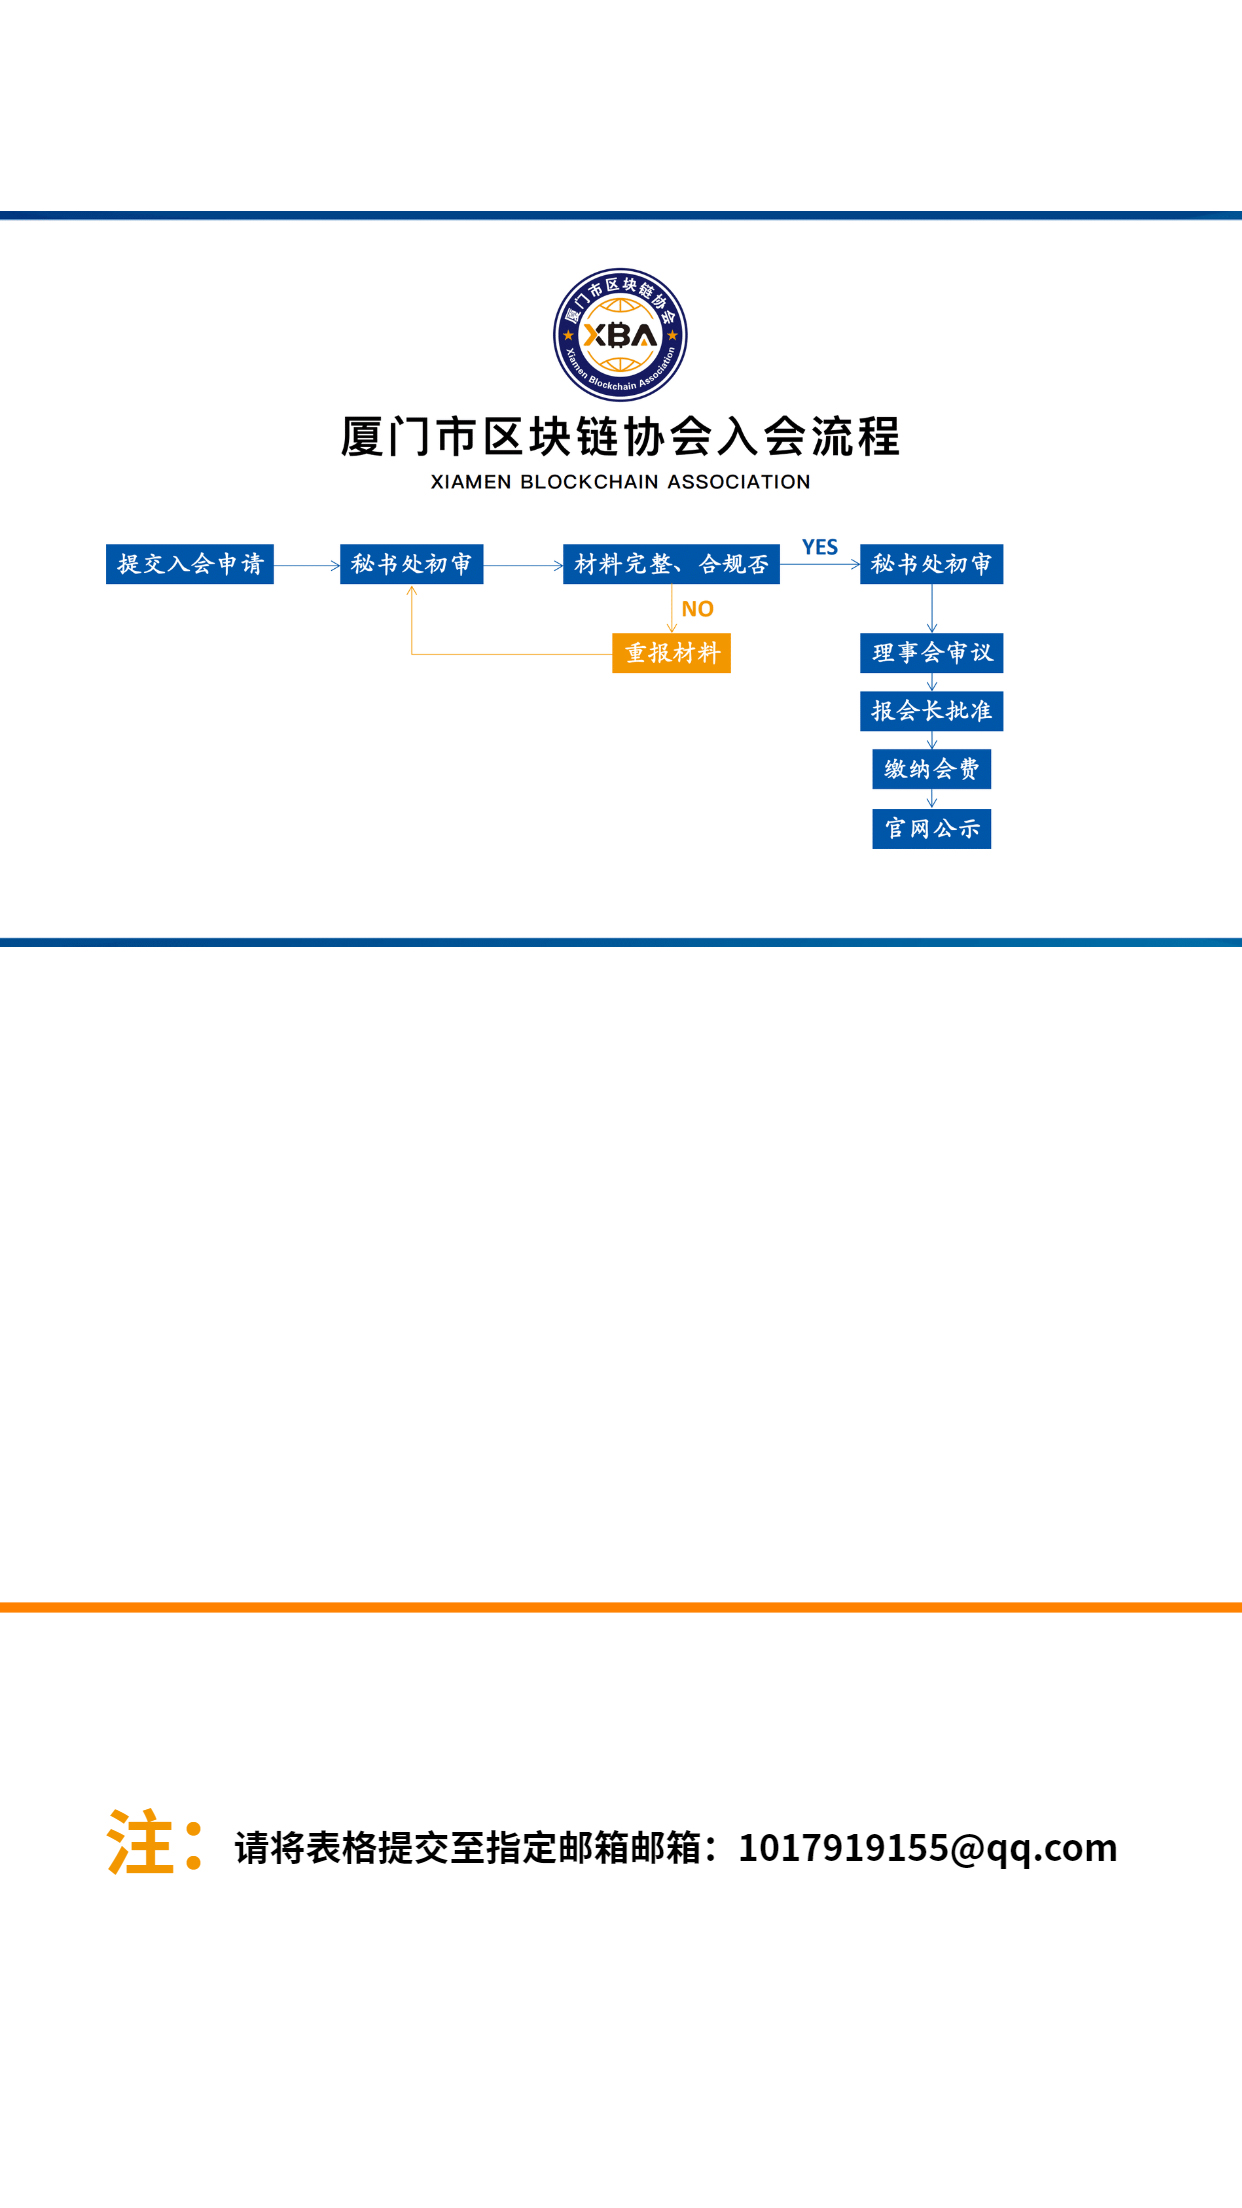
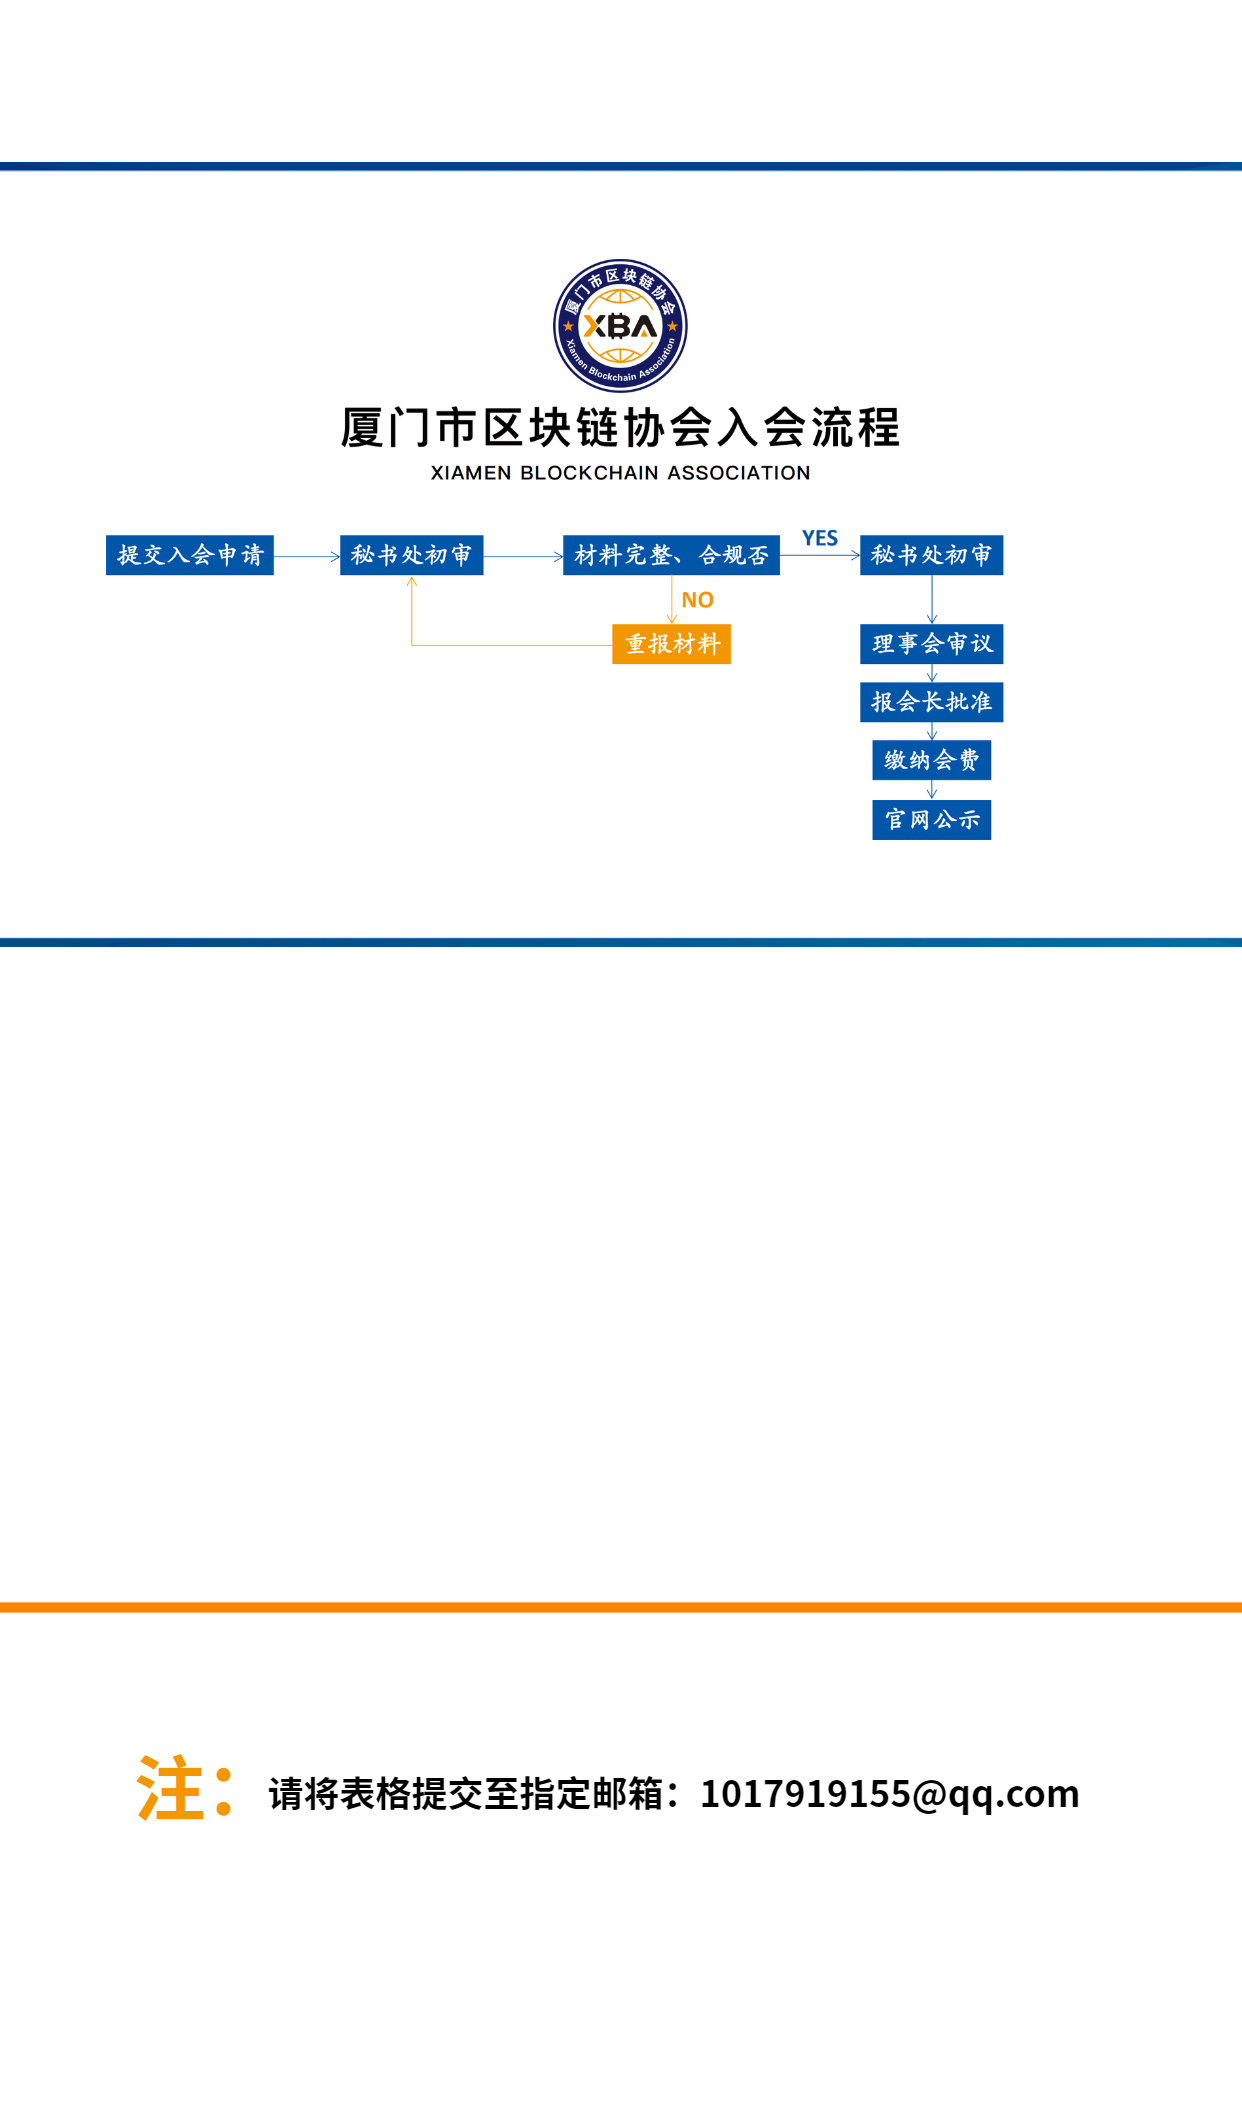
update

Changed region(s): [[0.0, 0.0618, 1.0, 0.4634], [0.0, 0.7106, 1.0, 0.7723], [0.0918, 0.8032, 0.8873, 0.865]]

diff --git a/themes/default/wordDownload.html b/themes/default/wordDownload.html
@@ -34,6 +34,7 @@
         max-width: 640px;
         min-width: 320px;
         margin: 0 auto;
+        position: relative;
     }
     .btn_box{
         margin: 0 auto;
@@ -49,8 +50,14 @@
         border-radius: 4px;
         font-size: .3rem;
     }
-    .ifranmea{
-       display: none;
+    .appltTable{
+       position: absolute;
+        top: 5.5rem;
+        text-align: center;
+        width: 100%;
+    }
+    .appltTable img{
+        width: 40%;
     }
     a{
         text-decoration: none;
@@ -61,7 +68,9 @@
 <div class="box">
     <img src="images/liuchengbiao.jpg" alt="" width="100%">
     <div class="appltTable">
-
+        <a href="/themes/default/doc/applytable.xlsx" download='厦门市区块链协会申请表'>
+            <img src="images/applybtn.png" alt="" >
+        </a>
     </div>
 </div>
 
